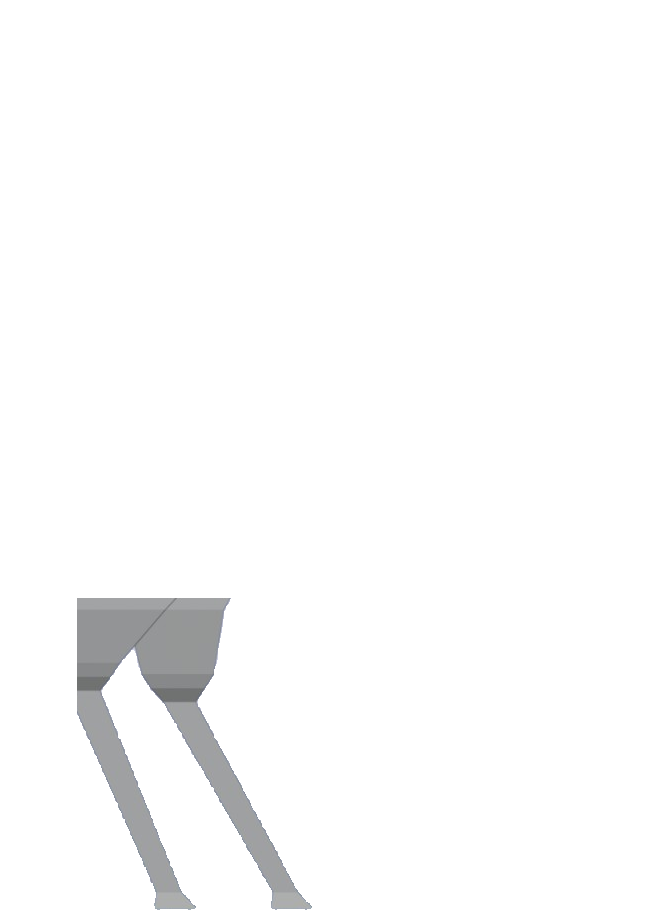
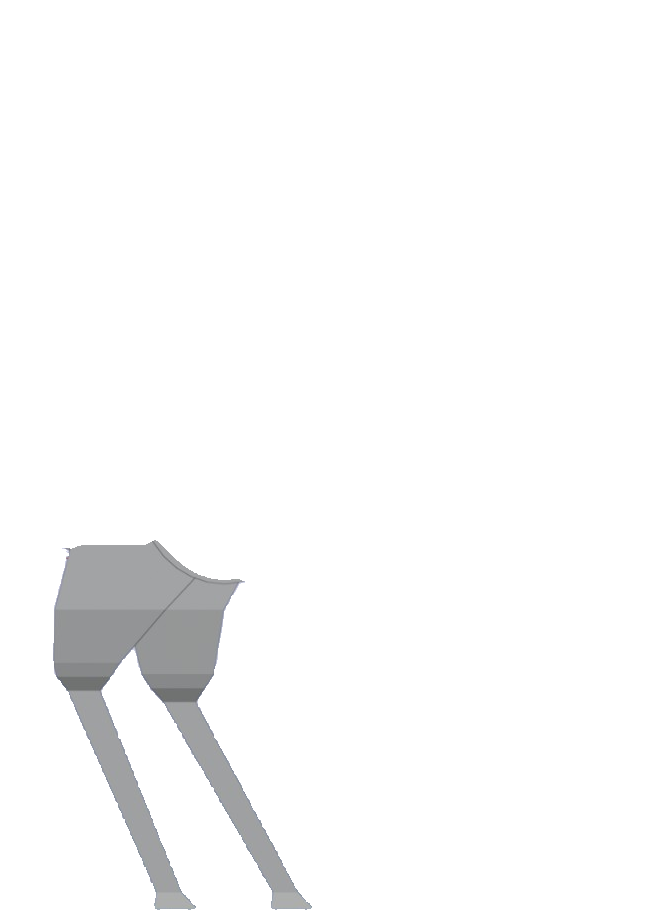
按木马本身的外形和绿线重切九块。

Changed region(s): [[0.0616, 0.5808, 0.3698, 0.7642]]

diff --git a/index.html b/index.html
@@ -81,14 +81,10 @@
   .part[data-role="structure"]  { opacity: .8; }
   .part.hover                   { filter: brightness(1.12); }
 
-  /* 空槽位：斜纹，和固定结构区分开 */
+  /* 空槽位就是这匹马本身，分块靠接缝看出来。 */
   .part[data-state="empty"] {
-    background-color: var(--empty);
-    background-image: repeating-linear-gradient(
-      45deg,
-      rgba(47,52,50,.10) 0 2px,
-      transparent 2px 7px
-    );
+    background-color: transparent;
+    background-image: var(--art);
   }
 
   /* 两个版本的占位色 + 质感 */
@@ -269,7 +265,7 @@
 
 <script>
 const NATURAL = { w: 649, h: 916 };
[2 lines of base64/hex data omitted]
 
 const VERSIONS = [
   { key: "yuandian", name: "原典" },
@@ -330,6 +326,7 @@ function buildStage() {
     const mask = `url("assets/masks/mask_${i}.png")`;
     el.style.webkitMaskImage = mask;
     el.style.maskImage = mask;
+    el.style.setProperty("--art", `url("assets/masks/art_${i}.png")`);
     if (STRUCTURE.includes(i)) {
       el.dataset.role = "structure";
       el.style.backgroundImage = `url("assets/masks/art_${i}.png")`;
@@ -381,6 +378,7 @@ function put(i, key) {
   const el = partEls[i];
   el.dataset.state = "filled";
   el.dataset.fill = key;
+  el.style.backgroundImage = "";
   VERSIONS.forEach(v => el.classList.toggle("tex-" + v.key, v.key === key));
   render();
 }
@@ -390,6 +388,7 @@ function take(i) {
   const el = partEls[i];
   el.dataset.state = "empty";
   delete el.dataset.fill;
+  el.style.backgroundImage = "";
   VERSIONS.forEach(v => el.classList.remove("tex-" + v.key));
   render();
 }
